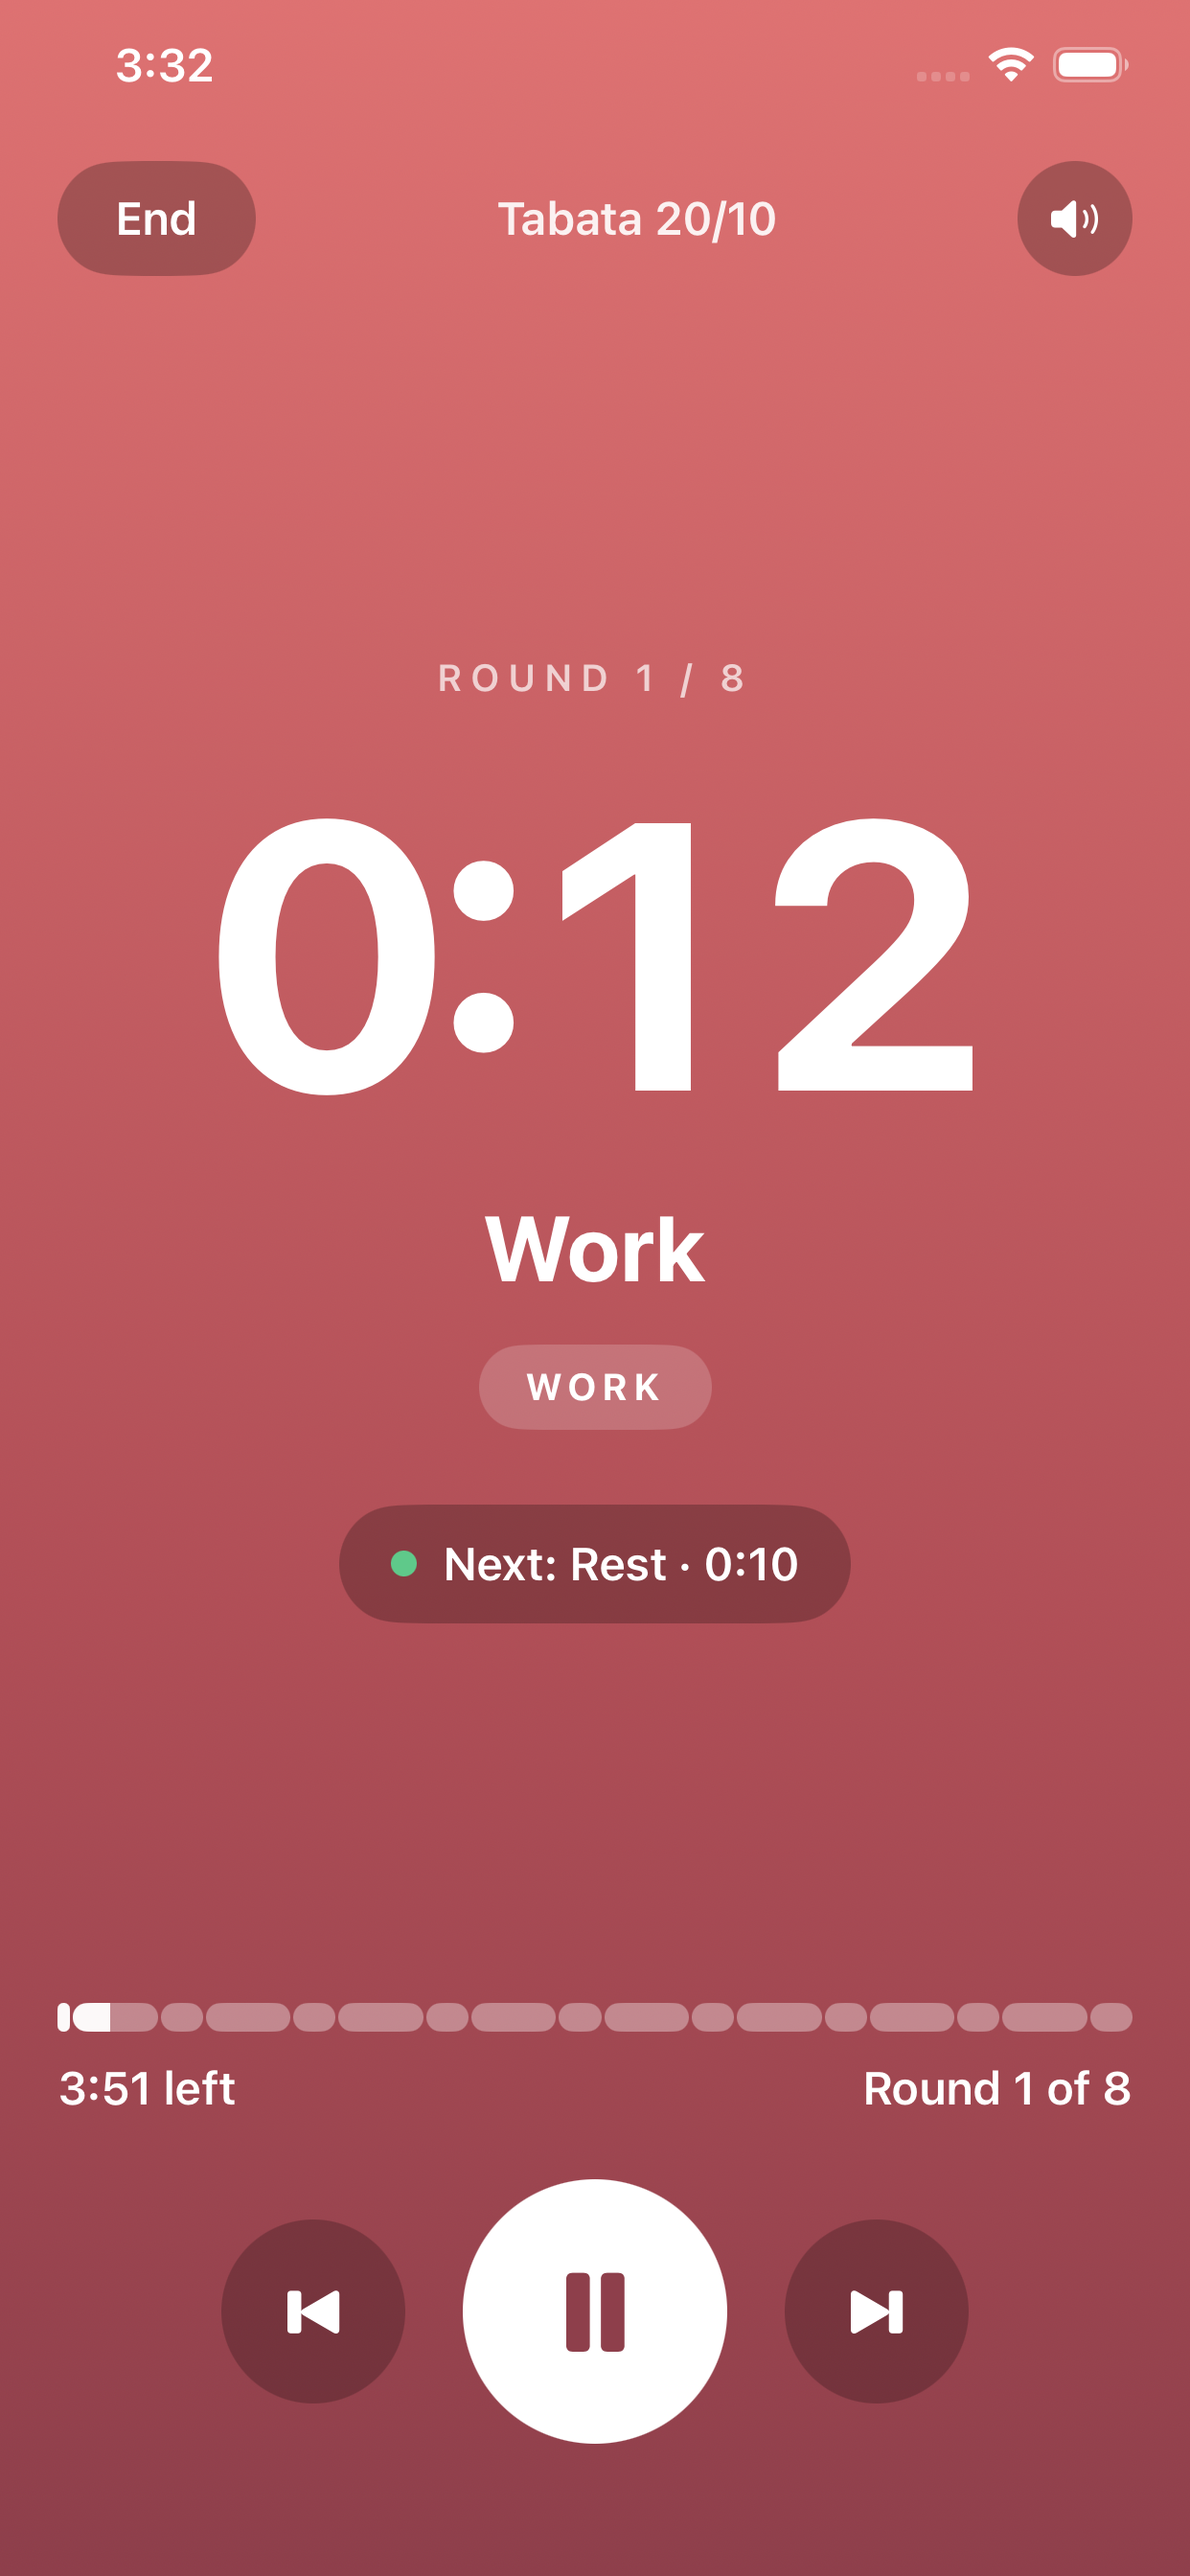
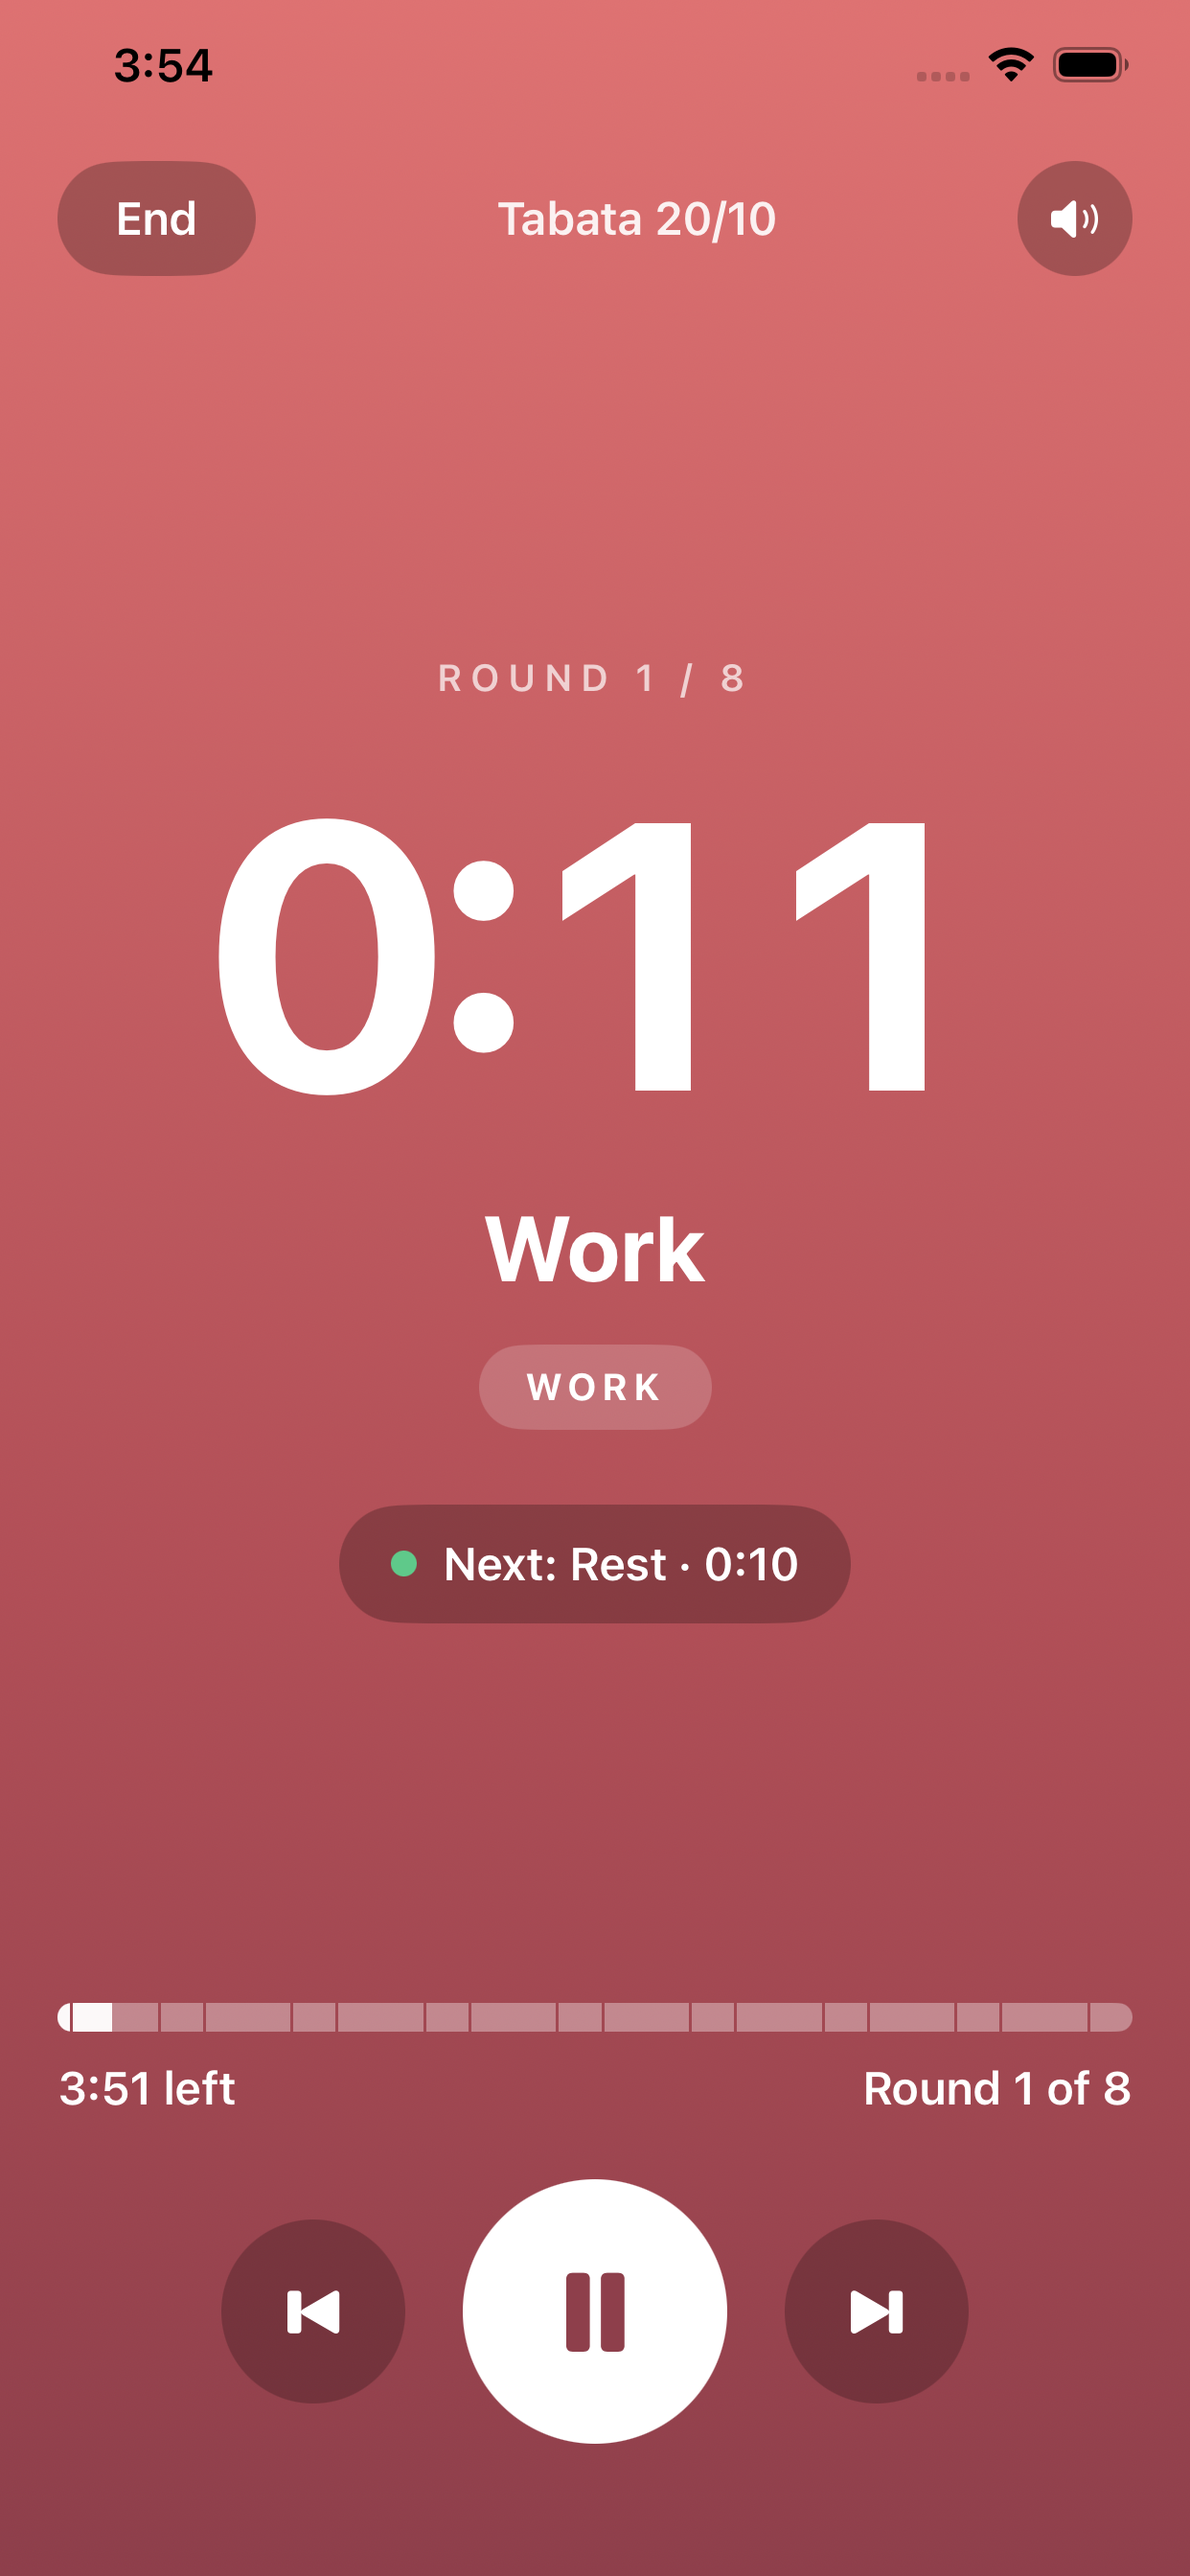
feat(run): draw the segment bar as one pill with hairline seams
The bar was a row of separate capsules, which reads as loose beads rather
than a progress bar. Slices are now square rectangles that abut, split by
1pt seams and clipped to a single Capsule, so only the bar's outer ends are
rounded. Seams drop to zero once slices get thinner than two seams, which
also replaces the old continuous-bar fallback for dense workouts.

Build 12; the three run screenshots recaptured.

diff --git a/IntervalTimer/Components/SegmentBar.swift b/IntervalTimer/Components/SegmentBar.swift
@@ -1,8 +1,10 @@
 import SwiftUI
 
-/// Whole-workout progress: one sliver per flattened segment, width proportional
-/// to its duration. Past segments read full, future ones washed out, and the
-/// current one fills from its leading edge.
+/// Whole-workout progress: one pill, divided into a slice per flattened segment
+/// with the slice width proportional to its duration. Past slices read full,
+/// future ones washed out, and the current one fills from its leading edge.
+/// Only the bar's outer ends are rounded — the slices are square and abut, split
+/// by hairline seams that let the background through.
 struct SegmentBar: View {
     var segments: [Segment]
     /// Index of the running segment.
@@ -12,78 +14,42 @@ struct SegmentBar: View {
     /// Flood draws in white over the interval ground; ring draws in the segment colors.
     var flood: Bool
     var height: CGFloat = 10
-    var gap: CGFloat = 3
-
-    /// Under this a pill is too thin to read as a pill at all.
-    private let minPillWidth: CGFloat = 4
+    var seam: CGFloat = 1
 
     var body: some View {
         let total = max(1, segments.reduce(0) { $0 + $1.seconds })
         GeometryReader { geo in
-            if let spacing = spacing(in: geo.size.width, total: total) {
-                pills(width: geo.size.width, spacing: spacing, total: total)
-            } else {
-                continuousBar(width: geo.size.width, total: total)
+            let gap = seamWidth(in: geo.size.width, total: total)
+            let available = geo.size.width - gap * CGFloat(max(0, segments.count - 1))
+            HStack(spacing: gap) {
+                ForEach(Array(segments.enumerated()), id: \.offset) { i, segment in
+                    slice(track: fill(i, segment, past: false),
+                          lit: fill(i, segment, past: true),
+                          width: available * CGFloat(segment.seconds) / CGFloat(total),
+                          litFraction: doneFraction(i))
+                }
             }
+            .clipShape(Capsule())
         }
         .frame(height: height)
     }
 
-    private func pills(width: CGFloat, spacing: CGFloat, total: Int) -> some View {
-        let available = width - spacing * CGFloat(max(0, segments.count - 1))
-        return HStack(spacing: spacing) {
-            ForEach(Array(segments.enumerated()), id: \.offset) { i, segment in
-                bar(track: fill(i, segment, past: false),
-                    lit: fill(i, segment, past: true),
-                    width: available * CGFloat(segment.seconds) / CGFloat(total),
-                    litFraction: doneFraction(i))
-            }
-        }
-    }
-
-    /// A capsule track with its leading portion lit. The lit part is masked with a
-    /// *rectangle* so it keeps the track's left cap and gets a flat leading edge —
-    /// a capsule here collapses into a blob that slides right instead of filling.
-    private func bar(track: Color, lit: Color, width: CGFloat, litFraction: CGFloat) -> some View {
-        Capsule()
+    /// One square slice: washed-out track with its leading portion lit.
+    private func slice(track: Color, lit: Color, width: CGFloat, litFraction: CGFloat) -> some View {
+        Rectangle()
             .fill(track)
             .overlay(alignment: .leading) {
-                Capsule()
-                    .fill(lit)
-                    .mask(alignment: .leading) { Rectangle().frame(width: width * litFraction) }
+                Rectangle().fill(lit).frame(width: width * litFraction)
             }
             .frame(width: width)
     }
 
-    /// One capsule for the whole run, used when there are too many segments to
-    /// draw as pills. Tinted by the segment currently running.
-    private func continuousBar(width: CGFloat, total: Int) -> some View {
-        let current = segments.indices.contains(index) ? segments[index] : segments.last
-        let color = flood ? Color.white : Color(hex: current?.color ?? Palette.preroll)
-        return bar(track: color.opacity(flood ? 0.35 : 0.3),
-                   lit: color.opacity(flood ? 0.95 : 1),
-                   width: width, litFraction: overallFraction(total: total))
-    }
-
-    /// The gap that keeps the narrowest pill legible, or nil when even a hairline
-    /// gap can't — then the bar degrades to `continuousBar`.
-    private func spacing(in width: CGFloat, total: Int) -> CGFloat? {
-        guard let shortest = segments.map(\.seconds).min(), width > 0 else { return nil }
-        func narrowest(_ gap: CGFloat) -> CGFloat {
-            let available = width - gap * CGFloat(max(0, segments.count - 1))
-            return available * CGFloat(shortest) / CGFloat(total)
-        }
-        if narrowest(gap) >= height { return gap }
-        if narrowest(1) >= minPillWidth { return 1 }
-        return nil
-    }
-
-    /// Elapsed share of the whole run (0–1).
-    private func overallFraction(total: Int) -> CGFloat {
-        let before = segments.prefix(max(0, index)).reduce(0) { $0 + $1.seconds }
-        let current = segments.indices.contains(index) ? Double(segments[index].seconds) : 0
-        let elapsed = Double(before) + current * max(0, min(1, elapsedFraction))
-        return CGFloat(min(1, elapsed / Double(total)))
+    /// Seams are dropped once the slices get so thin that the seams would eat
+    /// them — a 50-round workout then reads as a solid bar split only by color.
+    private func seamWidth(in width: CGFloat, total: Int) -> CGFloat {
+        guard let shortest = segments.map(\.seconds).min(), width > 0 else { return 0 }
+        let available = width - seam * CGFloat(max(0, segments.count - 1))
+        return available * CGFloat(shortest) / CGFloat(total) >= 2 * seam ? seam : 0
     }
 
     private func doneFraction(_ i: Int) -> CGFloat {

diff --git a/IntervalTimerTests/SegmentBarTests.swift b/IntervalTimerTests/SegmentBarTests.swift
@@ -8,31 +8,46 @@ import SwiftUI
 final class SegmentBarTests: XCTestCase {
 
     @MainActor
-    func testRunningPillFillsWithAFlatTrailingEdge() throws {
-        // 4 equal segments across 800pt, gap 3 → pills 197.75 wide.
-        // Pill 1 spans x 200.75…398.5; half elapsed → lit through x ≈ 299.6.
+    func testRunningSliceFillsWithAFlatTrailingEdge() throws {
+        // 4 equal segments across 800pt, 1pt seams → slices 199.25 wide.
+        // Slice 1 spans x 200.25…399.5; half elapsed → lit through x ≈ 299.9.
         let cg = try render(segments: segments(4), index: 1, elapsedFraction: 0.5,
                             width: 800, height: 40)
 
-        XCTAssertTrue(try isLit(cg, x: 210, y: 20), "running pill should be lit at its leading edge")
+        XCTAssertTrue(try isLit(cg, x: 210, y: 20), "running slice should be lit at its leading edge")
         XCTAssertTrue(try isLit(cg, x: 296, y: 4),
                       "lit part must reach the top row just inside the trailing edge")
         XCTAssertTrue(try isLit(cg, x: 296, y: 36),
                       "lit part must reach the bottom row just inside the trailing edge")
-        XCTAssertFalse(try isLit(cg, x: 340, y: 20), "the rest of the running pill stays washed out")
-        XCTAssertTrue(try isLit(cg, x: 100, y: 20), "finished pills read full")
-        XCTAssertFalse(try isLit(cg, x: 500, y: 20), "future pills read washed out")
+        XCTAssertFalse(try isLit(cg, x: 340, y: 20), "the rest of the running slice stays washed out")
+        XCTAssertTrue(try isLit(cg, x: 100, y: 20), "finished slices read full")
+        XCTAssertFalse(try isLit(cg, x: 500, y: 20), "future slices read washed out")
     }
 
-    /// Too many segments to draw as pills: the bar degrades to one continuous
-    /// capsule at the overall elapsed fraction rather than vanishing into hairlines.
+    /// The slices are square and abut; only the bar's outer ends are rounded, so
+    /// the whole thing reads as a single pill.
     @MainActor
-    func testDenseWorkoutDegradesToOneContinuousBar() throws {
-        // 100 segments across 300pt: even a 1pt gap leaves ~2pt pills.
-        let cg = try render(segments: segments(100), index: 50, elapsedFraction: 0.5,
+    func testBarIsOnePillWithSquareSlices() throws {
+        let cg = try render(segments: segments(4), index: 1, elapsedFraction: 0.5,
+                            width: 800, height: 40)
+
+        XCTAssertFalse(try isPainted(cg, x: 1, y: 1), "the bar's leading corner is clipped away")
+        XCTAssertTrue(try isPainted(cg, x: 1, y: 20), "the leading cap is painted at mid-height")
+        // Either side of the seam between slice 1 and slice 2, at the top row: square
+        // slices paint right up to the seam, capsule-shaped ones would not.
+        XCTAssertTrue(try isPainted(cg, x: 398, y: 1), "slice 1 is square at its trailing end")
+        XCTAssertTrue(try isPainted(cg, x: 402, y: 1), "slice 2 is square at its leading end")
+    }
+
+    /// Too many segments for hairline seams: they're dropped rather than eating
+    /// the slices, and the bar still fills.
+    @MainActor
+    func testDenseWorkoutDropsTheSeams() throws {
+        // 200 segments across 300pt — 1pt seams would leave slices half a point wide.
+        let cg = try render(segments: segments(200), index: 100, elapsedFraction: 0.5,
                             width: 300, height: 10)
 
-        XCTAssertTrue(try isLit(cg, x: 100, y: 5), "elapsed part of the continuous bar is lit")
+        XCTAssertTrue(try isLit(cg, x: 100, y: 5), "elapsed part is lit")
         XCTAssertTrue(try isLit(cg, x: 140, y: 5), "lit through ~50% of the run")
         XCTAssertFalse(try isLit(cg, x: 250, y: 5), "remaining part stays washed out")
     }
@@ -63,6 +78,11 @@ final class SegmentBarTests: XCTestCase {
     private func isLit(_ image: CGImage, x: Int, y: Int) throws -> Bool {
         let pixel = try XCTUnwrap(pixelRGBA(image, x: x, y: y))
         return pixel.r > 0.7 && pixel.g < 0.3 && pixel.b < 0.3
+    }
+
+    /// Any bar pixel, lit or washed out — the black backdrop shows through elsewhere.
+    private func isPainted(_ image: CGImage, x: Int, y: Int) throws -> Bool {
+        try XCTUnwrap(pixelRGBA(image, x: x, y: y)).r > 0.1
     }
 
     private func pixelRGBA(_ image: CGImage, x: Int, y: Int) -> (r: Double, g: Double, b: Double, a: Double)? {

diff --git a/docs/app-store-connect-info.md b/docs/app-store-connect-info.md
@@ -14,7 +14,7 @@ Everything needed to fill out the App Store Connect listing for Interval Pulse T
 | Secondary Category | Sports (optional) |
 | Team / Apple Developer | DZRPJF9JB6 |
 | Version (Marketing) | 1.7 |
-| Build number | 11 |
+| Build number | 12 |
 | Price | Free (or your choice) |
 | Copyright | © 2026 Norman Hoang |
 
